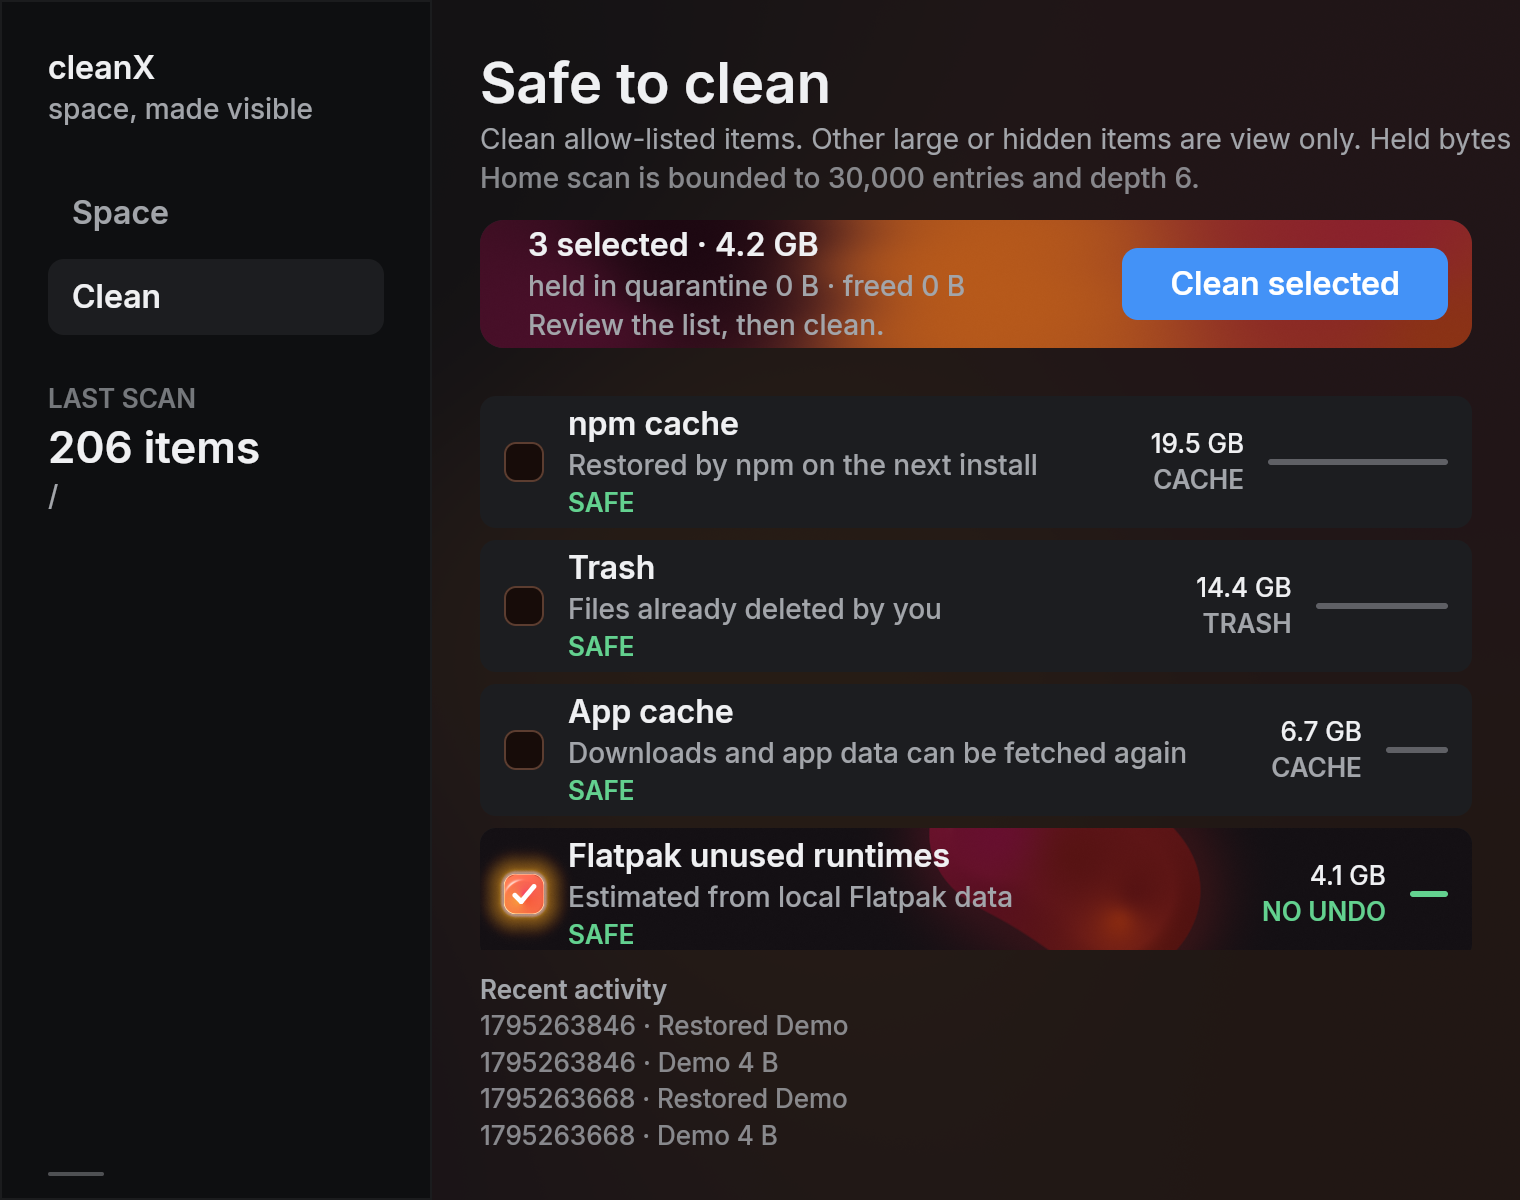
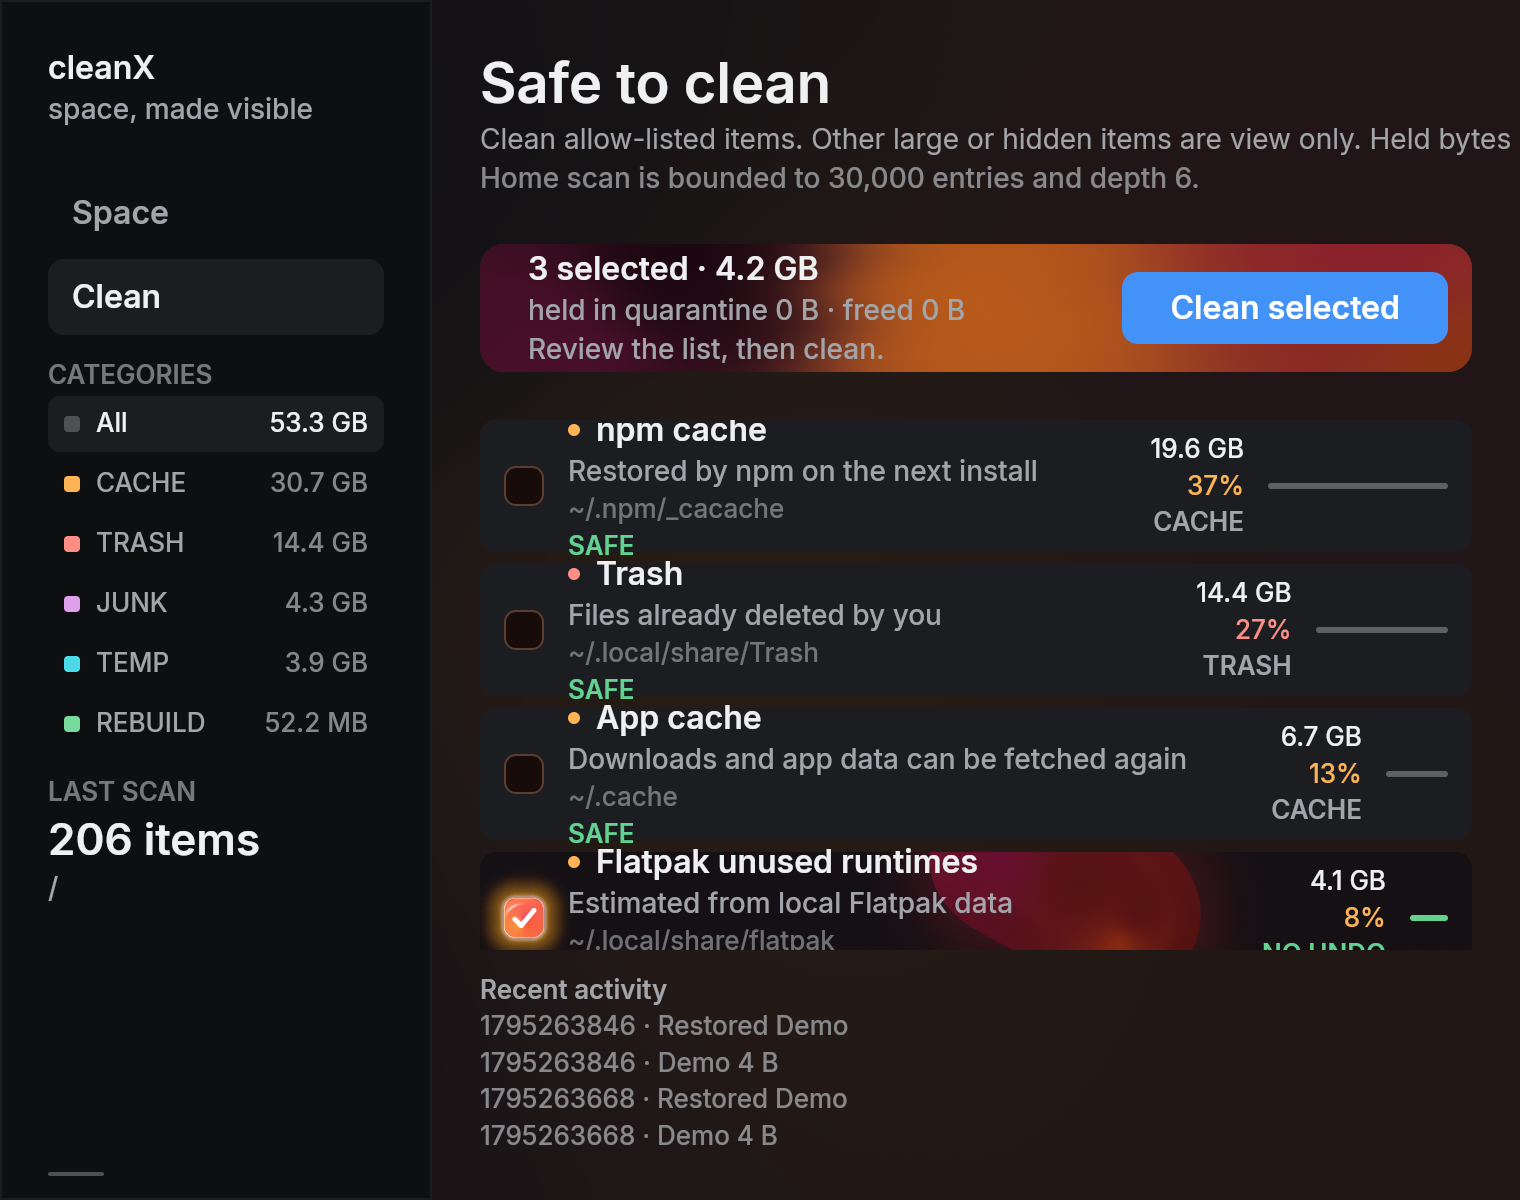
Add colored categories, mono data columns, and richer clean rows

diff --git a/src/main.rs b/src/main.rs
@@ -35,6 +35,8 @@ struct State {
     session: session::Session,
     tab: Tab,
     notice: Option<String>,
+    /// Clean-tab category filter. None shows every category.
+    category: Option<scan::Kind>,
     /// The `isolated` scene sets this to render effects inside an isolated layer.
     isolate: bool,
 }
@@ -45,6 +47,7 @@ impl Default for State {
             session: session::Session::new(),
             tab: Tab::Space,
             notice: None,
+            category: None,
             isolate: false,
         }
     }
@@ -78,6 +81,31 @@ fn mood(free: f32) -> (&'static str, Color) {
     } else {
         ("Almost full", oklch(0.78, 0.18, 30.0))
     }
+}
+
+/// One hue per kind. The sidebar and the rows read the same color, so the color
+/// means one thing everywhere. Kept separate from Impact, which means safety.
+fn kind_color(kind: scan::Kind) -> Color {
+    match kind {
+        scan::Kind::Cache => oklch(0.82, 0.14, 70.0),
+        scan::Kind::Temp => oklch(0.82, 0.12, 205.0),
+        scan::Kind::Trash => oklch(0.78, 0.15, 25.0),
+        scan::Kind::Meta => oklch(0.79, 0.12, 320.0),
+        scan::Kind::Build => oklch(0.81, 0.13, 155.0),
+    }
+}
+
+/// Sizes per kind, largest first. One source for the sidebar and the Space tab.
+fn kind_totals(candidates: &[session::Candidate]) -> Vec<(scan::Kind, u64)> {
+    let mut out: Vec<(scan::Kind, u64)> = Vec::new();
+    for c in candidates {
+        match out.iter_mut().find(|(k, _)| *k == c.target.kind) {
+            Some(entry) => entry.1 += c.target.bytes,
+            None => out.push((c.target.kind, c.target.bytes)),
+        }
+    }
+    out.sort_by(|a, b| b.1.cmp(&a.1));
+    out
 }
 
 /// An effect slot: `mark` picks the shader, `data` carries its live numbers.
@@ -250,6 +278,26 @@ fn sidebar(
                 ),
         );
     }
+    // One colored row per kind, sized from the same scan the Space tab reads.
+    let totals = kind_totals(s.session.candidates());
+    let total: u64 = totals.iter().map(|(_, bytes)| *bytes).sum();
+    let mut cats = col().key("categories").gap(2.0);
+    cats = cats.child(category_row(
+        None, "All", total, indicator, s.category, card, ink, secondary,
+    ));
+    for (kind, bytes) in totals {
+        cats = cats.child(category_row(
+            Some(kind),
+            kind.label(),
+            bytes,
+            kind_color(kind),
+            s.category,
+            card,
+            ink,
+            secondary,
+        ));
+    }
+
     col()
         .key("sidebar")
         .w(216.0)
@@ -271,10 +319,21 @@ fn sidebar(
         .child(tabs)
         .child(
             col()
+                .gap(2.0)
+                .mt(space::S3)
+                .child(
+                    text("CATEGORIES")
+                        .font(type_::SECTION)
+                        .color(secondary.alpha(0.7)),
+                )
+                .child(cats),
+        )
+        .child(
+            col()
                 .key("scan-summary")
                 .grow(1.0)
                 .gap(2.0)
-                .mt(space::S6)
+                .mt(space::S3)
                 .child(
                     text("LAST SCAN")
                         .font(type_::SECTION)
@@ -307,6 +366,51 @@ fn sidebar(
         )
 }
 
+/// A sidebar category. The same colored square appears on its rows in Clean.
+fn category_row(
+    kind: Option<scan::Kind>,
+    label: &'static str,
+    bytes: u64,
+    swatch: Color,
+    active: Option<scan::Kind>,
+    card: Color,
+    ink: Color,
+    secondary: Color,
+) -> El {
+    let on = active == kind;
+    row()
+        .key(format!("cat-{}", label.to_ascii_lowercase()))
+        .role("radio")
+        .label(label)
+        .checked(on)
+        .focusable(true)
+        .h(28.0)
+        .px(space::S2)
+        .gap(space::S2)
+        .radius(radius::SM)
+        .fill(if on { card } else { Color::TRANSPARENT })
+        .hover(secondary.alpha(0.08))
+        .on_press(move |s: &mut State| {
+            s.category = kind;
+            s.tab = Tab::Clean;
+        })
+        .center_y()
+        .child(el().size(8.0, 8.0).radius(2.0).fill(swatch))
+        .child(
+            text(label)
+                .font(type_::MONO_CAPTION)
+                .color(if on { ink } else { secondary })
+                .a11y_hidden(),
+        )
+        .child(el().grow(1.0))
+        .child(
+            text(scan::human(bytes))
+                .font(type_::MONO_CAPTION)
+                .color(if on { ink } else { secondary.alpha(0.8) })
+                .a11y_hidden(),
+        )
+}
+
 fn space_view(
     s: &State,
     card: Color,
@@ -328,14 +432,7 @@ fn space_view(
     let hue = 150.0 - (1.0 - free) * 125.0;
     let orb_accent = oklch(0.72, 0.17, hue);
 
-    let mut by_kind: Vec<(scan::Kind, u64)> = Vec::new();
-    for c in s.session.candidates() {
-        match by_kind.iter_mut().find(|(k, _)| *k == c.target.kind) {
-            Some(entry) => entry.1 += c.target.bytes,
-            None => by_kind.push((c.target.kind, c.target.bytes)),
-        }
-    }
-    by_kind.sort_by(|a, b| b.1.cmp(&a.1));
+    let by_kind = kind_totals(s.session.candidates());
 
     let mut pills = row().key("volumes").gap(6.0).w_full();
     if s.session.volumes().len() > 4 {
@@ -761,16 +858,24 @@ fn clean_view(
         el().key("clean-fire-off").h(0.0)
     };
 
-    let max_bytes = s
+    // The sidebar picks a category. Row keys stay tied to the real candidate index.
+    let shown: Vec<(usize, &session::Candidate)> = s
         .session
         .candidates()
         .iter()
-        .map(|c| c.target.bytes)
+        .enumerate()
+        .filter(|(_, c)| s.category.is_none_or(|k| c.target.kind == k))
+        .collect();
+    let total_bytes: u64 = s.session.candidates().iter().map(|c| c.target.bytes).sum();
+    let max_bytes = shown
+        .iter()
+        .map(|(_, c)| c.target.bytes)
         .max()
         .unwrap_or(1)
         .max(1);
+    let home = scan::home_dir();
     let mut list = col().key("clean-list").gap(6.0);
-    if s.session.candidates().is_empty() {
+    if shown.is_empty() {
         list = list.child(
             col()
                 .center()
@@ -784,8 +889,14 @@ fn clean_view(
                 ),
         );
     }
-    for (i, c) in s.session.candidates().iter().enumerate() {
+    for &(i, c) in &shown {
         let target = &c.target;
+        let swatch = kind_color(target.kind);
+        let path = match target.path.strip_prefix(&home) {
+            Ok(p) => format!("~/{}", p.to_string_lossy()),
+            Err(_) => target.path.to_string_lossy().into_owned(),
+        };
+        let pct = scan::fraction(target.bytes, total_bytes) * 100.0;
         let on = c.chosen;
         let badge = if on {
             oklch(0.78, 0.14, 155.0)
@@ -865,11 +976,23 @@ fn clean_view(
                         .grow(1.0)
                         .min_w(0.0)
                         .gap(2.0)
-                        .child(text(&target.label).font(type_::TITLE).color(ink))
+                        .child(
+                            row()
+                                .gap(space::S2)
+                                .center_y()
+                                .child(el().size(6.0, 6.0).radius(3.0).fill(swatch))
+                                .child(text(&target.label).font(type_::TITLE).color(ink)),
+                        )
                         .child(
                             text(&target.detail)
                                 .font(type_::LABEL)
                                 .color(secondary)
+                                .truncate(),
+                        )
+                        .child(
+                            text(&path)
+                                .font(type_::MONO_CAPTION)
+                                .color(secondary.alpha(0.65))
                                 .truncate(),
                         )
                         .child(
@@ -886,6 +1009,11 @@ fn clean_view(
                             text(scan::human(target.bytes))
                                 .font(type_::MONO_CAPTION)
                                 .color(ink),
+                        )
+                        .child(
+                            text(format!("{pct:.0}%"))
+                                .font(type_::MONO_CAPTION)
+                                .color(swatch),
                         )
                         .child(
                             text(if target.impact.view_only() {
@@ -945,6 +1073,32 @@ fn clean_view(
         );
     }
 
+    let filter_bar = match s.category {
+        Some(k) => row()
+            .key("filter-bar")
+            .h(30.0)
+            .gap(space::S2)
+            .center_y()
+            .child(el().size(8.0, 8.0).radius(2.0).fill(kind_color(k)))
+            .child(
+                text(format!("{} · {} items", k.label(), shown.len()))
+                    .font(type_::MONO_CAPTION)
+                    .color(secondary),
+            )
+            .child(el().grow(1.0))
+            .child(
+                el().key("filter-clear")
+                    .h(24.0)
+                    .px(space::S2)
+                    .radius(radius::SM)
+                    .fill(card)
+                    .center()
+                    .on_press(|s: &mut State| s.category = None)
+                    .child(text("Show all").font(type_::SECTION).color(ink)),
+            ),
+        None => el().key("filter-off").h(0.0),
+    };
+
     col()
         .key("clean")
         .grow(1.0)
@@ -970,6 +1124,7 @@ fn clean_view(
                         .color(secondary.alpha(0.8)),
                 ),
         )
+        .child(filter_bar)
         .child(
             row()
                 .key("summary")
@@ -1056,7 +1211,10 @@ fn clean_press(s: &mut State) {
     if !s.session.armed() {
         if !s.session.arm() {
             s.notice = Some("Select something first.".into());
+            return;
         }
+        // Arming reveals every category, so the confirm press shows its full scope.
+        s.category = None;
         return;
     }
     let report = s.session.clean();
@@ -1124,6 +1282,19 @@ mod tests {
             kind: scan::Kind::Cache,
             impact: scan::Impact::Safe,
             bytes: 4096,
+            tool: None,
+            default_on: true,
+        }
+    }
+
+    fn fake_temp_target() -> scan::CleanTarget {
+        scan::CleanTarget {
+            path: std::path::PathBuf::from("/home/test/tmp"),
+            label: "App temp".into(),
+            detail: "temporary files".into(),
+            kind: scan::Kind::Temp,
+            impact: scan::Impact::Safe,
+            bytes: 2048,
             tool: None,
             default_on: true,
         }
@@ -1245,6 +1416,56 @@ mod tests {
         rt.frame(0.0);
         assert!(!rt.state.session.candidates()[0].chosen);
         assert!(!rt.state.session.armed());
+    }
+
+    #[test]
+    fn a_sidebar_category_filters_the_clean_list() {
+        let mut state = State::default();
+        state
+            .session
+            .set_candidates(vec![fake_target(), fake_temp_target()]);
+        let mut rt = Runtime::new(state, view, (760.0, 600.0), Env::new(true, 1.0));
+        rt.frame(0.0);
+        let (x, y) = rt.find("cat-cache").unwrap();
+        rt.pointer_down(x, y);
+        rt.pointer_up(x, y);
+        rt.frame(0.0);
+        assert_eq!(rt.state.tab, Tab::Clean);
+        assert_eq!(rt.state.category, Some(scan::Kind::Cache));
+        assert!(rt.find("row-0").is_some());
+        assert!(rt.find("row-1").is_none());
+        assert!(rt.find("filter-bar").is_some());
+        // The new filter bar fades in; let it finish before pressing its button.
+        for _ in 0..8 {
+            if !rt.frame(1.0) {
+                break;
+            }
+        }
+        let (x, y) = rt.find("filter-clear").unwrap();
+        rt.pointer_down(x, y);
+        rt.pointer_up(x, y);
+        rt.frame(0.0);
+        assert_eq!(rt.state.category, None);
+        assert!(rt.find("row-1").is_some());
+    }
+
+    #[test]
+    fn arming_a_filtered_list_reveals_every_category() {
+        let mut state = State::default();
+        state.tab = Tab::Clean;
+        state.category = Some(scan::Kind::Cache);
+        state
+            .session
+            .set_candidates(vec![fake_target(), fake_temp_target()]);
+        let mut rt = Runtime::new(state, view, (760.0, 600.0), Env::new(true, 1.0));
+        rt.frame(0.0);
+        let (x, y) = rt.find("clean-button").unwrap();
+        rt.pointer_down(x, y);
+        rt.pointer_up(x, y);
+        rt.frame(0.0);
+        assert!(rt.state.session.armed());
+        assert_eq!(rt.state.category, None);
+        assert!(rt.find("row-1").is_some());
     }
 
     #[test]
